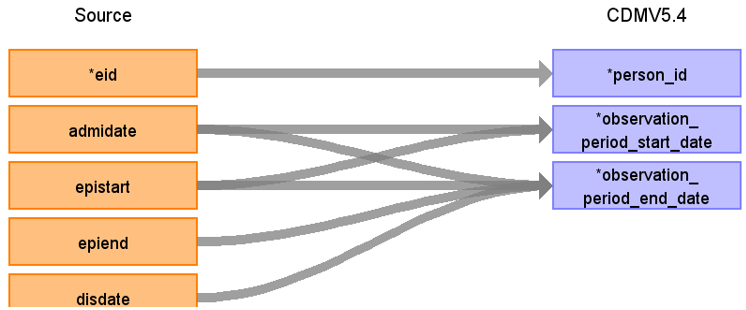
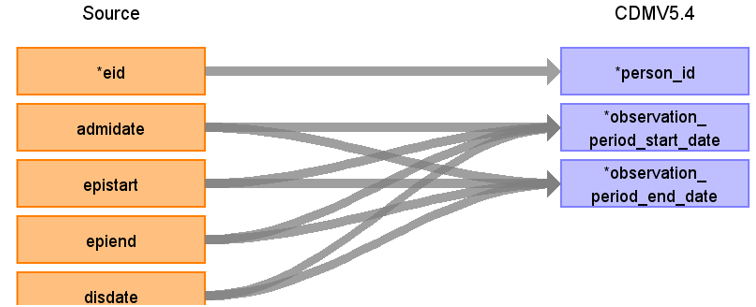
Updating hesin docs

diff --git a/UK_BIOBANK/UKB_HESIN/UKB_HESIN_Observation_Period.md b/UK_BIOBANK/UKB_HESIN/UKB_HESIN_Observation_Period.md
@@ -17,6 +17,6 @@ description: "Person mapping from source_ukb_hesin.hesin & public_ukb.death tabl
 | --- | --- | :---: | --- |
 | observation_period_id |  |  |  Autogenerate|
 | person_id | eid | | |
-| observation_period_start_date | epistart,<br>admidate| | use the earliest of the two date fields that is not null.|
-| observation_period_end_date |death.date_of_death,<br>epiend,<br>disdate,<br>admidate,<br>epistart || use the latest of (epiend, disdate, admidate, epistart), then the earliest between that and death.date_of_death.|
+| observation_period_start_date | admidate,<br>epistart,<br>disdate,<br>epiend| Use all four fields in case some of them are null | use the earliest of (admidate,epistart,disdate,epiend) that is not null.|
+| observation_period_end_date |death.date_of_death,<br>disdate,<br>epiend,<br>admidate,<br>epistart |Use all four fields in case some of them are null| use the latest of (disdate, epiend, admidate, epistart)that is not null, then the earliest between that and death.date_of_death.|
 | period_type_concept_id | | [32880 - Standard algorithm](https://athena.ohdsi.org/search-terms/terms/32880)| |

diff --git a/UK_BIOBANK/UKB_HESIN/UKB_HESIN_STEM.md b/UK_BIOBANK/UKB_HESIN/UKB_HESIN_STEM.md
@@ -50,7 +50,7 @@ description: "Stem table description"
 | modifier_source_value |  | | |
 | start_date | opdate,<br>hesin.epistart | | If opdate is null then use hesin.epistart|
 | start_datetime | opdate,<br>hesin.epistart |   | |
-| end_date | opdate,<br>hesin.epiend | | If opdate is null then use hesin.epiend |
+| end_date | opdate,<br>hesin.epistart | | If opdate is null then use hesin.epistart |
 | end_datetime | opdate,<br>hesin.epistart  | | |
 | concept_id  | NULL  |  |  |
 | stem_source_table | | "hesin_oper" | |
